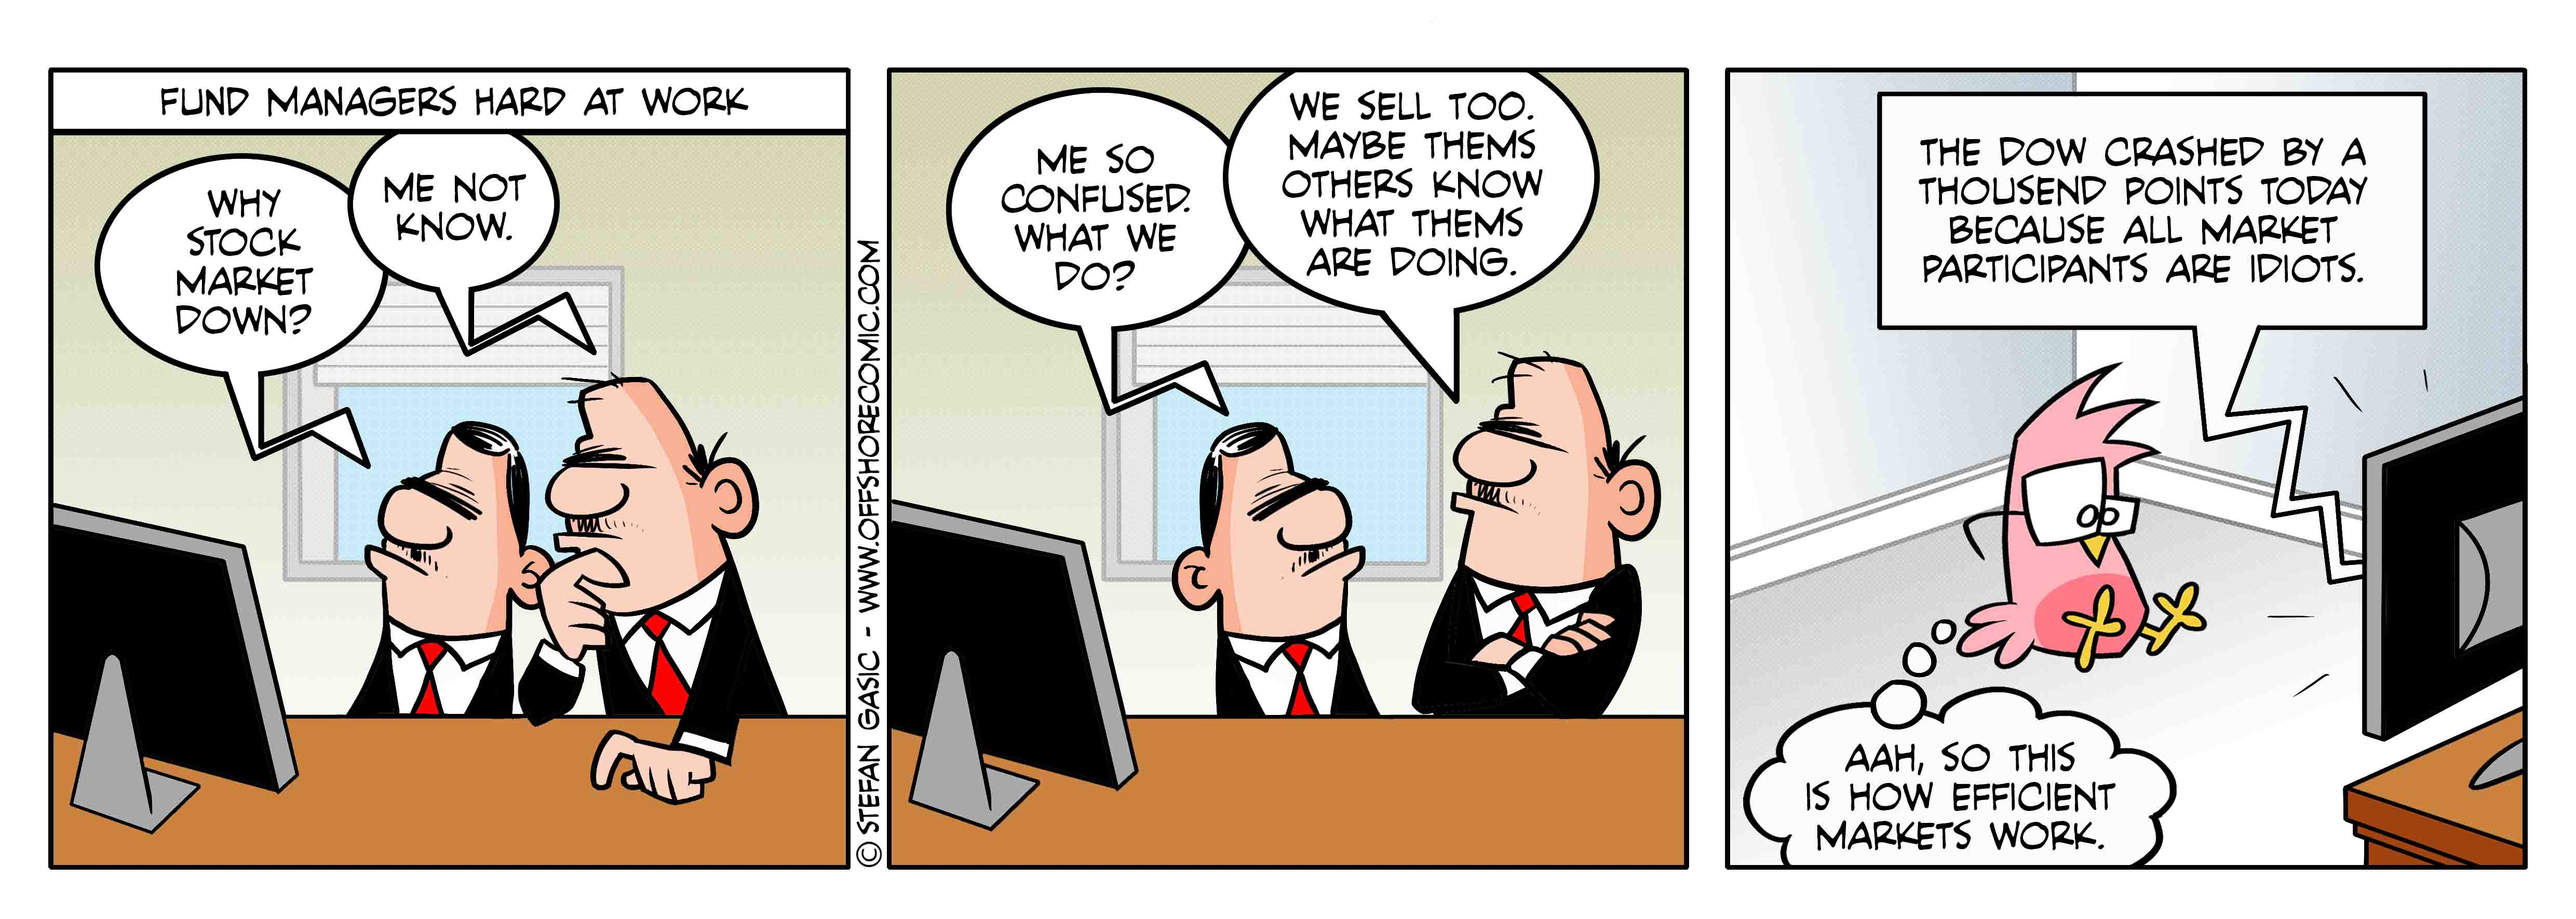
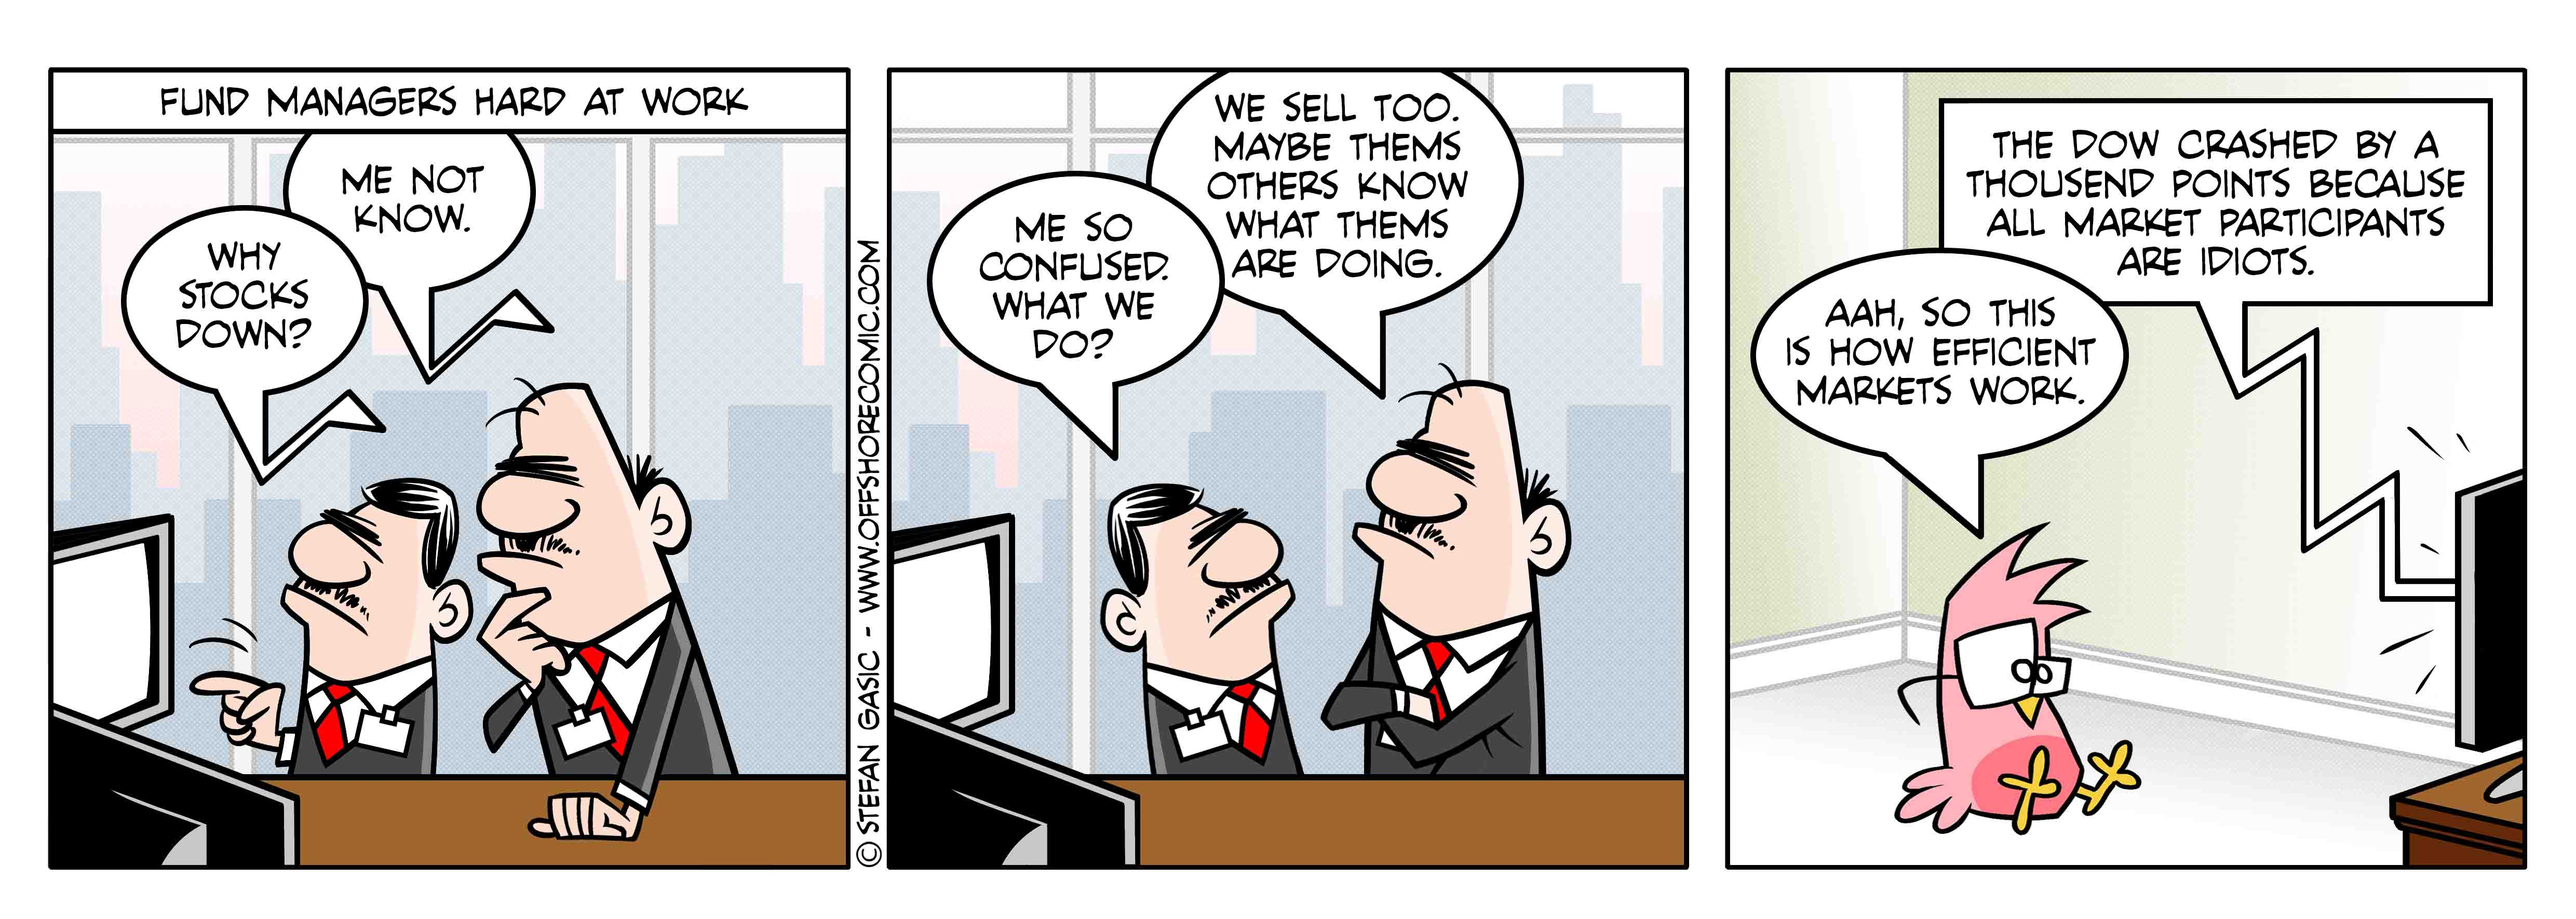
Addded a new strip and updated the html and js codes.

diff --git a/myscripts.js b/myscripts.js
@@ -1,4 +1,4 @@
-var Strips = ["images/S390.jpg","images/S389.jpg","images/S388.jpg","images/S387.jpg","images/S386.jpg","images/S385.jpg","images/S384.jpg","images/S383.jpg","images/S382.jpg","images/S381.jpg","images/S380.jpg","images/S379.jpg","images/S378.jpg","images/S377.jpg","images/S376.jpg","images/S375.jpg","images/S374.jpg","images/S373.jpg","images/S372.jpg","images/S371.jpg","images/S370.jpg","images/S369.jpg","images/S368.jpg","images/S367.jpg","images/S366.jpg","images/S365.jpg","images/S364.jpg","images/S363.jpg","images/S362.jpg","images/S361.jpg","images/S360.jpg","images/S359.jpg","images/S358.jpg","images/S357.jpg","images/S356.jpg","images/S355.jpg","images/S354.jpg","images/S353.jpg","images/S352.jpg","images/S351.jpg","images/S350.jpg","images/S349.jpg","images/S348.jpg","images/S347.jpg","images/S346.jpg","images/S345.jpg","images/S344.jpg","images/S343.jpg","images/S342.jpg","images/S341.jpg","images/S340.jpg","images/S339.jpg","images/S338.jpg","images/S337.jpg","images/S336.jpg","images/S335.jpg","images/S334.jpg","images/S333.jpg","images/S332.jpg","images/S331.jpg","images/S330.jpg","images/S329.jpg","images/S328.jpg","images/S327.jpg","images/S326.jpg","images/S325.jpg","images/S324.jpg","images/S323.jpg","images/S322.jpg","images/S321.jpg","images/S320.jpg","images/S319.jpg","images/S318.jpg","images/S317.jpg","images/S316.jpg","images/S315.jpg","images/S314.jpg","images/S313.jpg","images/S312.jpg","images/S311.jpg","images/S310.jpg","images/S309.jpg","images/S308.jpg","images/S307.jpg","images/S306.jpg","images/S305.jpg","images/S304.jpg","images/S303.jpg","images/S302.jpg","images/S301.jpg","images/S300.jpg","images/S299.jpg","images/S298.jpg","images/S297.jpg","images/S296.jpg","images/S295.jpg","images/S294.jpg","images/S293.jpg","images/S292.jpg","images/S291.jpg","images/S290.jpg","images/S289.jpg","images/S288.jpg","images/S287.jpg","images/S286.jpg","images/S285.jpg","images/S284.jpg","images/S283.jpg","images/S282.jpg","images/S281.jpg","images/S280.jpg","images/S279.jpg","images/S278.jpg","images/S277.jpg","images/S276.jpg","images/S275.jpg","images/S274.jpg","images/S273.jpg","images/S272.jpg","images/S271.jpg","images/S270.jpg","images/S269.jpg","images/S268.jpg","images/S267.jpg","images/S266.jpg","images/S265.jpg","images/S264.jpg","images/S263.jpg","images/S262.jpg","images/S261.jpg","images/S260.jpg","images/S259.jpg","images/S258.jpg","images/S257.jpg","images/S256.jpg","images/S255.jpg","images/S254.jpg","images/S253.jpg","images/S252.jpg","images/S251.jpg","images/S250.jpg","images/S249.jpg","images/S248.jpg","images/S247.jpg","images/S246.jpg","images/S245.jpg","images/S244.jpg","images/S243.jpg","images/S242.jpg","images/S241.jpg","images/S240.jpg","images/S239.jpg","images/S238.jpg","images/S237.jpg","images/S236.jpg","images/S235.jpg","images/S234.jpg","images/S233.jpg","images/S232.jpg","images/S231.jpg","images/S230.jpg","images/S229.jpg","images/S228.jpg","images/S227.jpg","images/S226.jpg","images/S225.jpg","images/S224.jpg","images/S223.jpg","images/S222.jpg","images/S221.jpg","images/S220.jpg","images/S219.jpg","images/S218.jpg","images/S217.jpg","images/S216.jpg","images/S215.jpg","images/S214.jpg","images/S213.jpg","images/S212.jpg","images/S211.jpg","images/S210.jpg","images/S209.jpg","images/S208.jpg","images/S207.jpg","images/S206.jpg","images/S205.jpg","images/S204.jpg","images/S203.jpg","images/S202.jpg","images/S201.jpg","images/S200.jpg","images/S199.jpg","images/S198.jpg","images/S197.jpg","images/S196.jpg","images/S195.jpg","images/S194.jpg","images/S193.jpg","images/S192.jpg","images/S191.jpg","images/S190.jpg","images/S189.jpg","images/S188.jpg","images/S187.jpg","images/S186.jpg","images/S185.jpg","images/S184.jpg","images/S183.jpg","images/S182.jpg","images/S181.jpg","images/S180.jpg","images/S179.jpg","images/S178.jpg","images/S177.jpg","images/S176.jpg","images/S175.jpg","images/S174.jpg","images/S173.jpg","images/S172.jpg","images/S171.jpg","images/S170.jpg","images/S169.jpg","images/S168.jpg","images/S167.jpg","images/S166.jpg","images/S165.jpg","images/S164.jpg","images/S163.jpg","images/S162.jpg","images/S161.jpg","images/S160.jpg","images/S159.jpg","images/S158.jpg","images/S157.jpg","images/S156.jpg","images/S155.jpg","images/S154.jpg","images/S153.jpg","images/S152.jpg","images/S151.jpg","images/S150.jpg","images/S149.jpg","images/S148.jpg","images/S147.jpg","images/S146.jpg","images/S145.jpg","images/S144.jpg","images/S143.jpg","images/S142.jpg","images/S141.jpg","images/S140.jpg","images/S139.jpg","images/S138.jpg","images/S137.jpg","images/S136.jpg","images/S135.jpg","images/S134.jpg","images/S133.jpg","images/S132.jpg","images/S131.jpg","images/S130.jpg","images/S129.jpg","images/S128.jpg","images/S127.jpg","images/S126.jpg","images/S125.jpg","images/S124.jpg","images/S123.jpg","images/S122.jpg","images/S121.jpg","images/S120.jpg","images/S119.jpg","images/S118.jpg","images/S117.jpg","images/S116.jpg","images/S115.jpg","images/S114.jpg","images/S113.jpg","images/S112.jpg","images/S111.jpg","images/S110.jpg","images/S109.jpg","images/S108.jpg","images/S107.jpg","images/S106.jpg","images/S105.jpg","images/S104.jpg","images/S103.jpg","images/S102.jpg","images/S101.jpg","images/S100.jpg","images/S99.jpg","images/S98.jpg","images/S97.jpg","images/S96.jpg","images/S95.jpg","images/S94.jpg","images/S93.jpg","images/S92.jpg","images/S91.jpg","images/S90.jpg","images/S89.jpg","images/S88.jpg","images/S87.jpg","images/S86.jpg","images/S85.jpg","images/S84.jpg","images/S83.jpg","images/S82.jpg","images/S81.jpg","images/S80.jpg","images/S79.jpg","images/S78.jpg","images/S77.jpg","images/S76.jpg","images/S75.jpg","images/S74.jpg","images/S73.jpg","images/S72.jpg","images/S71.jpg","images/S70.jpg","images/S69.jpg","images/S68.jpg","images/S67.jpg","images/S66.jpg","images/S65.jpg","images/S64.jpg","images/S63.jpg","images/S62.jpg","images/S61.jpg","images/S60.jpg","images/S59.jpg","images/S58.jpg","images/S57.jpg","images/S56.jpg","images/S55.jpg","images/S54.jpg","images/S53.jpg","images/S52.jpg","images/S51.jpg","images/S50.jpg","images/S49.jpg","images/S48.jpg","images/S47.jpg","images/S46.jpg","images/S45.jpg","images/S44.jpg","images/S43.jpg","images/S42.jpg","images/S41.jpg","images/S40.jpg","images/S39.jpg","images/S38.jpg","images/S37.jpg","images/S36.jpg","images/S35.jpg","images/S34.jpg","images/S33.jpg","images/S32.jpg","images/S31.jpg","images/S30.jpg","images/S29.jpg","images/S28.jpg","images/S27.jpg","images/S26.jpg","images/S25.jpg","images/S24.jpg","images/S23.jpg","images/S22.jpg","images/S21.jpg","images/S20.jpg","images/S19.jpg","images/S18.jpg","images/S17.jpg","images/S16.jpg","images/S15.jpg","images/S14.jpg","images/S13.jpg","images/S12.jpg","images/S11.jpg","images/S10.jpg","images/S9.jpg","images/S8.jpg","images/S7.jpg","images/S6.jpg","images/S5.jpg","images/S4.jpg","images/S3.jpg","images/S2.jpg","images/S1.jpg"];
+var Strips = ["images/S391.jpg","images/S390.jpg","images/S389.jpg","images/S388.jpg","images/S387.jpg","images/S386.jpg","images/S385.jpg","images/S384.jpg","images/S383.jpg","images/S382.jpg","images/S381.jpg","images/S380.jpg","images/S379.jpg","images/S378.jpg","images/S377.jpg","images/S376.jpg","images/S375.jpg","images/S374.jpg","images/S373.jpg","images/S372.jpg","images/S371.jpg","images/S370.jpg","images/S369.jpg","images/S368.jpg","images/S367.jpg","images/S366.jpg","images/S365.jpg","images/S364.jpg","images/S363.jpg","images/S362.jpg","images/S361.jpg","images/S360.jpg","images/S359.jpg","images/S358.jpg","images/S357.jpg","images/S356.jpg","images/S355.jpg","images/S354.jpg","images/S353.jpg","images/S352.jpg","images/S351.jpg","images/S350.jpg","images/S349.jpg","images/S348.jpg","images/S347.jpg","images/S346.jpg","images/S345.jpg","images/S344.jpg","images/S343.jpg","images/S342.jpg","images/S341.jpg","images/S340.jpg","images/S339.jpg","images/S338.jpg","images/S337.jpg","images/S336.jpg","images/S335.jpg","images/S334.jpg","images/S333.jpg","images/S332.jpg","images/S331.jpg","images/S330.jpg","images/S329.jpg","images/S328.jpg","images/S327.jpg","images/S326.jpg","images/S325.jpg","images/S324.jpg","images/S323.jpg","images/S322.jpg","images/S321.jpg","images/S320.jpg","images/S319.jpg","images/S318.jpg","images/S317.jpg","images/S316.jpg","images/S315.jpg","images/S314.jpg","images/S313.jpg","images/S312.jpg","images/S311.jpg","images/S310.jpg","images/S309.jpg","images/S308.jpg","images/S307.jpg","images/S306.jpg","images/S305.jpg","images/S304.jpg","images/S303.jpg","images/S302.jpg","images/S301.jpg","images/S300.jpg","images/S299.jpg","images/S298.jpg","images/S297.jpg","images/S296.jpg","images/S295.jpg","images/S294.jpg","images/S293.jpg","images/S292.jpg","images/S291.jpg","images/S290.jpg","images/S289.jpg","images/S288.jpg","images/S287.jpg","images/S286.jpg","images/S285.jpg","images/S284.jpg","images/S283.jpg","images/S282.jpg","images/S281.jpg","images/S280.jpg","images/S279.jpg","images/S278.jpg","images/S277.jpg","images/S276.jpg","images/S275.jpg","images/S274.jpg","images/S273.jpg","images/S272.jpg","images/S271.jpg","images/S270.jpg","images/S269.jpg","images/S268.jpg","images/S267.jpg","images/S266.jpg","images/S265.jpg","images/S264.jpg","images/S263.jpg","images/S262.jpg","images/S261.jpg","images/S260.jpg","images/S259.jpg","images/S258.jpg","images/S257.jpg","images/S256.jpg","images/S255.jpg","images/S254.jpg","images/S253.jpg","images/S252.jpg","images/S251.jpg","images/S250.jpg","images/S249.jpg","images/S248.jpg","images/S247.jpg","images/S246.jpg","images/S245.jpg","images/S244.jpg","images/S243.jpg","images/S242.jpg","images/S241.jpg","images/S240.jpg","images/S239.jpg","images/S238.jpg","images/S237.jpg","images/S236.jpg","images/S235.jpg","images/S234.jpg","images/S233.jpg","images/S232.jpg","images/S231.jpg","images/S230.jpg","images/S229.jpg","images/S228.jpg","images/S227.jpg","images/S226.jpg","images/S225.jpg","images/S224.jpg","images/S223.jpg","images/S222.jpg","images/S221.jpg","images/S220.jpg","images/S219.jpg","images/S218.jpg","images/S217.jpg","images/S216.jpg","images/S215.jpg","images/S214.jpg","images/S213.jpg","images/S212.jpg","images/S211.jpg","images/S210.jpg","images/S209.jpg","images/S208.jpg","images/S207.jpg","images/S206.jpg","images/S205.jpg","images/S204.jpg","images/S203.jpg","images/S202.jpg","images/S201.jpg","images/S200.jpg","images/S199.jpg","images/S198.jpg","images/S197.jpg","images/S196.jpg","images/S195.jpg","images/S194.jpg","images/S193.jpg","images/S192.jpg","images/S191.jpg","images/S190.jpg","images/S189.jpg","images/S188.jpg","images/S187.jpg","images/S186.jpg","images/S185.jpg","images/S184.jpg","images/S183.jpg","images/S182.jpg","images/S181.jpg","images/S180.jpg","images/S179.jpg","images/S178.jpg","images/S177.jpg","images/S176.jpg","images/S175.jpg","images/S174.jpg","images/S173.jpg","images/S172.jpg","images/S171.jpg","images/S170.jpg","images/S169.jpg","images/S168.jpg","images/S167.jpg","images/S166.jpg","images/S165.jpg","images/S164.jpg","images/S163.jpg","images/S162.jpg","images/S161.jpg","images/S160.jpg","images/S159.jpg","images/S158.jpg","images/S157.jpg","images/S156.jpg","images/S155.jpg","images/S154.jpg","images/S153.jpg","images/S152.jpg","images/S151.jpg","images/S150.jpg","images/S149.jpg","images/S148.jpg","images/S147.jpg","images/S146.jpg","images/S145.jpg","images/S144.jpg","images/S143.jpg","images/S142.jpg","images/S141.jpg","images/S140.jpg","images/S139.jpg","images/S138.jpg","images/S137.jpg","images/S136.jpg","images/S135.jpg","images/S134.jpg","images/S133.jpg","images/S132.jpg","images/S131.jpg","images/S130.jpg","images/S129.jpg","images/S128.jpg","images/S127.jpg","images/S126.jpg","images/S125.jpg","images/S124.jpg","images/S123.jpg","images/S122.jpg","images/S121.jpg","images/S120.jpg","images/S119.jpg","images/S118.jpg","images/S117.jpg","images/S116.jpg","images/S115.jpg","images/S114.jpg","images/S113.jpg","images/S112.jpg","images/S111.jpg","images/S110.jpg","images/S109.jpg","images/S108.jpg","images/S107.jpg","images/S106.jpg","images/S105.jpg","images/S104.jpg","images/S103.jpg","images/S102.jpg","images/S101.jpg","images/S100.jpg","images/S99.jpg","images/S98.jpg","images/S97.jpg","images/S96.jpg","images/S95.jpg","images/S94.jpg","images/S93.jpg","images/S92.jpg","images/S91.jpg","images/S90.jpg","images/S89.jpg","images/S88.jpg","images/S87.jpg","images/S86.jpg","images/S85.jpg","images/S84.jpg","images/S83.jpg","images/S82.jpg","images/S81.jpg","images/S80.jpg","images/S79.jpg","images/S78.jpg","images/S77.jpg","images/S76.jpg","images/S75.jpg","images/S74.jpg","images/S73.jpg","images/S72.jpg","images/S71.jpg","images/S70.jpg","images/S69.jpg","images/S68.jpg","images/S67.jpg","images/S66.jpg","images/S65.jpg","images/S64.jpg","images/S63.jpg","images/S62.jpg","images/S61.jpg","images/S60.jpg","images/S59.jpg","images/S58.jpg","images/S57.jpg","images/S56.jpg","images/S55.jpg","images/S54.jpg","images/S53.jpg","images/S52.jpg","images/S51.jpg","images/S50.jpg","images/S49.jpg","images/S48.jpg","images/S47.jpg","images/S46.jpg","images/S45.jpg","images/S44.jpg","images/S43.jpg","images/S42.jpg","images/S41.jpg","images/S40.jpg","images/S39.jpg","images/S38.jpg","images/S37.jpg","images/S36.jpg","images/S35.jpg","images/S34.jpg","images/S33.jpg","images/S32.jpg","images/S31.jpg","images/S30.jpg","images/S29.jpg","images/S28.jpg","images/S27.jpg","images/S26.jpg","images/S25.jpg","images/S24.jpg","images/S23.jpg","images/S22.jpg","images/S21.jpg","images/S20.jpg","images/S19.jpg","images/S18.jpg","images/S17.jpg","images/S16.jpg","images/S15.jpg","images/S14.jpg","images/S13.jpg","images/S12.jpg","images/S11.jpg","images/S10.jpg","images/S9.jpg","images/S8.jpg","images/S7.jpg","images/S6.jpg","images/S5.jpg","images/S4.jpg","images/S3.jpg","images/S2.jpg","images/S1.jpg"];
 
 var Current = 0;
 var myStrip = null;

diff --git a/index.html b/index.html
@@ -42,7 +42,7 @@
         <div class="count">
           <strong><span id="currentCount"></span></strong> out of <strong><span id="totalCount"></span></strong>
         </div>
-		<div class="wrap-item1"><img src="images/S390.jpg" id="Strip"/></div>
+		<div class="wrap-item1"><img src="images/S391.jpg" id="Strip"/></div>
 		<div class="wrapper3">
 			<div class="wrap-item3">
 			<button class="button" onClick="Last();">&lsaquo;&lsaquo;</button>
